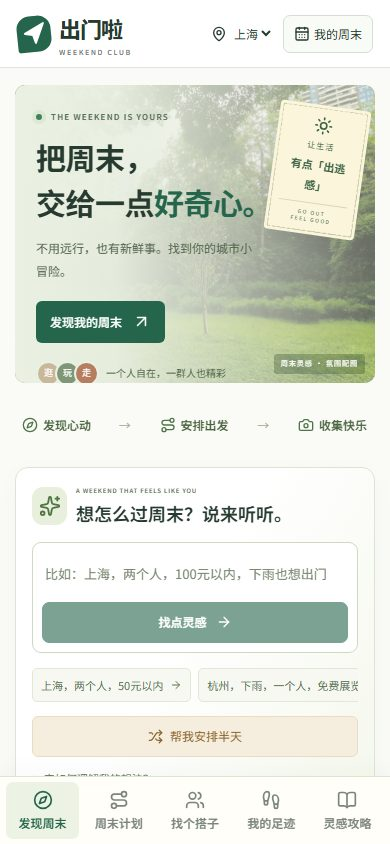
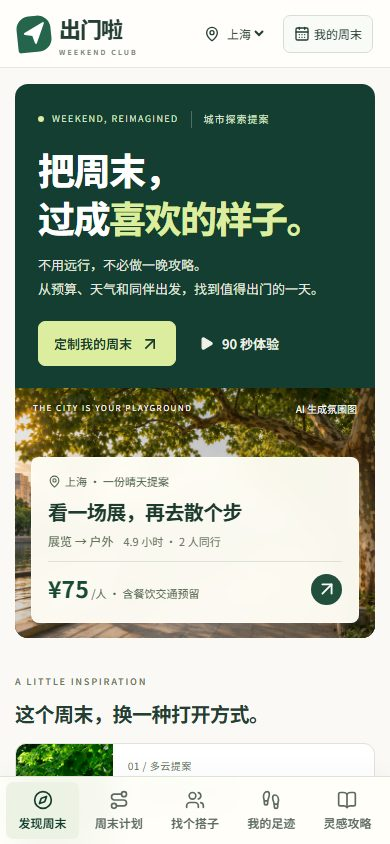
Document verified V3 experience and refresh interface previews

diff --git a/docs/VERIFICATION.md b/docs/VERIFICATION.md
@@ -1,4 +1,20 @@
-# V2 验证记录
+# V3 验证记录
+
+验证日期：2026-11-10（北京时间）。检查对象为提交 `1380f7f` 的实际 Linux 生产构建产物：[成功构建记录](https://github.com/LeiQingliang/weekend-city-guide/actions/runs/42672719309)。后续发布提交只更新说明及页面截图，应用源码与此构建一致。
+
+## 本轮自动化与浏览器检查
+
+- 类型检查、生产构建与 **45 项单元测试通过**。新增覆盖全天预算、可用时长、雨天室内约束、不同方案组合、同行偏好排序及雨天替代不延长原行程。
+- **8 组核心交互检查通过**：提案预览及替换确认；向导取消不改变原记录；手机预览操作条在顶部、中部、底部均可点击；桌面和手机三步定制、费用比较与采用后持久化；预算不足的明确说明及主动调整；空计划进入定制；计划直接打开组队、分享和打卡。
+- **7 组体验隔离与键盘检查通过**：临时示例计划、雨天替换、分享及打卡、打卡转攻略草稿、退出后精确恢复原数据、体验中刷新保留原数据，以及弹窗焦点循环与 Esc 关闭。攻略草稿标记实际花费待补充，保存后才生成攻略记录。
+- 分享链接在独立浏览器环境中预览、确认载入，刷新后计划保留；切换城市不删除已有行程；首页 90 秒体验可直接开始并退出。
+- 检查 **320、390、768、1440 像素 × 5 个主要页面**，20 种组合均无横向溢出；未捕获页面脚本错误或本地资源加载失败。
+- 手机品牌与底部导航无遮挡；三步向导的下一步/比较按钮可见；两份方案的总价、包含项与时长在结果首屏可比较，摘要按钮会滚动并聚焦对应方案，不改变分享链接片段。
+- 桌面及手机的首次具体提案、预计时长与含餐饮交通的人均费用均在首屏可见。README 使用本轮实际构建截图。
+
+天气外部服务、活动真实性与组队同步的能力边界保持下文说明。本轮没有把浏览器测试或截图等同于全设备覆盖、真实活动可用或用户成效。
+
+## V2 历史验证记录
 
 验证日期：2026-11-10（北京时间）。以实际构建产物执行检查，不将页面截图或单元测试当成全部功能正确的证明。
 

diff --git a/README.md b/README.md
@@ -26,9 +26,9 @@
 
 ## 界面预览
 
-| 桌面：排程与完整费用 | 手机：发现与灵感 |
+| 桌面：具体提案与完整费用 | 手机：首屏即可开始 |
 | --- | --- |
-| ![桌面行程页面](docs/images/plan.jpg) | ![手机发现页面](docs/images/mobile.jpg) |
+| ![桌面提案首页](docs/images/plan.jpg) | ![手机提案首页](docs/images/mobile.jpg) |
 
 以上为实际运行页面截图。
 
